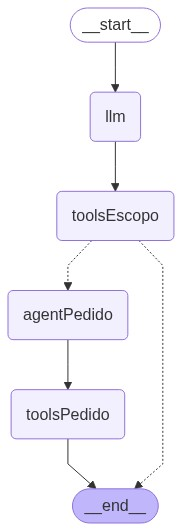
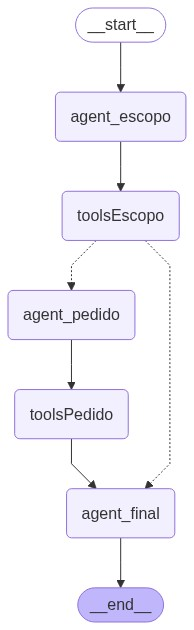
primeiro commit

Changed region(s): [[0.0275, 0.0, 0.989, 0.9944], [0.8242, 0.0, 0.9066, 0.0904], [0.6319, 0.6026, 0.6868, 0.693]]

diff --git a/src/agentEscopo.ts b/src/agentEscopo.ts
@@ -3,11 +3,12 @@ import { writeFileSync } from "node:fs";
 import { StateGraph, MessagesAnnotation } from "@langchain/langgraph";
 import { z } from "zod";
 import { tool } from "@langchain/core/tools";
-import { HumanMessage } from "@langchain/core/messages";
+import { HumanMessage, SystemMessage, AIMessage } from "@langchain/core/messages";
 
 import ToolEscopo from "./tools/ToolEscopo";
 import ToolPedido from "./tools/ToolPedido";
 import AgentOpenAI from "./agents/AgentOpenAI";
+import askQuestion from "./terminal";
 
 //---------------------------------------------
 // 1. Definição das Tools
@@ -43,33 +44,47 @@ const buscarClienteTool = tool(
    */
   const agentEscopo = agentOpenAI.create([toolsEscopo.getEscopo]);
   const agentPedido = agentOpenAI.create([toolsPedido.getPedido]);
-
+  const agentFinal = agentOpenAI.create([]);
   //---------------------------------------------
   // 2. Definição do Workflow
   //---------------------------------------------
 
+  const listAgents = ["agent_pedido"];
   const workflow = new StateGraph(MessagesAnnotation)
     .addNode("toolsEscopo", toolsEscopo.node)
     .addNode("toolsPedido", toolsPedido.node)
-    .addNode("llm", (state) => agentOpenAI.call(state, agentEscopo))
-    .addNode("agentPedido", (state) => agentOpenAI.call(state, agentPedido))
-    .addEdge("__start__", "llm")
-    .addEdge("llm", "toolsEscopo")
+    .addNode("agent_escopo", (state) => agentOpenAI.call(state, agentEscopo))
+    .addNode("agent_pedido", (state) => agentOpenAI.call(state, agentPedido))
+    .addNode("agent_final", (state) => {
+      const lastMessage = state.messages[state.messages.length - 1];
+      const message = lastMessage.content.toString().toLowerCase().trim();
+      console.log("Messange antes do agent final: ", message);
+      const input = new SystemMessage(
+        `Voce é um assistente de IA que revisa todas as perguntas e respostas, e se verificar que ouve algum erro
+         , você deve informar que não pode responder a pergunta e que o usuário deve entrar em 
+         contato com o suporte. se tudo estiver ok, voce apenas repete a resposta do agente anterior sem alterar nada.`
+      );
+      state.messages.push(input);
+      return agentOpenAI.call(state, agentFinal);
+    })
+    .addEdge("__start__", "agent_escopo")
+    .addEdge("agent_escopo", "toolsEscopo")
     .addConditionalEdges(
       "toolsEscopo",
       (state) => {
         const lastMessage = state.messages[state.messages.length - 1];
         const escopo = lastMessage.content.toString().toLowerCase().trim();
-
-        if (escopo === "pedido") {
-          return "agentPedido";
+        if (!listAgents.find((value) => value.toLocaleLowerCase() === escopo.toLocaleLowerCase())) {
+          return "agent_final";
         }
-        return "__end__";
+        return escopo;
       },
-      ["agentPedido", "__end__"]
+      ["agent_pedido", "agent_final"]
     )
-    .addEdge("agentPedido", "toolsPedido")
-    .addEdge("toolsPedido", "__end__")
+
+    .addEdge("agent_pedido", "toolsPedido")
+    .addEdge("toolsPedido", "agent_final")
+    .addEdge("agent_final", "__end__")
 
     .compile();
 
@@ -106,7 +121,8 @@ const buscarClienteTool = tool(
   // askQuestion();
 
   const input = {
-    messages: [new HumanMessage("Quero consultar um pedido")],
+    messages: [new HumanMessage("Quero consultar um pedido numero 123456")],
+    //messages: [new HumanMessage("Quero saber aonde eu encontro um posto de gasulina")],
     //messages: [new HumanMessage("quero consultar um cliente")],
     //messages: [new HumanMessage("quero ver quantos trabalhadores a clamed tem")],
   };
@@ -118,6 +134,7 @@ const buscarClienteTool = tool(
   const filePath = "./graphState.png";
   writeFileSync(filePath, new Uint8Array(graphStateArrayBuffer));
 
-  const responde = await workflow.invoke(input);
-  console.log("Resposta final:", responde.messages[responde.messages.length - 1].content);
+  askQuestion(workflow);
+  //const responde = await workflow.invoke(input);
+  //console.log("Resposta final:", responde.messages[responde.messages.length - 1].content);
 })();

diff --git a/src/terminal.ts b/src/terminal.ts
@@ -1,0 +1,35 @@
+import readline from "readline";
+import { HumanMessage } from "@langchain/core/messages";
+
+const rl = readline.createInterface({
+  input: process.stdin,
+  output: process.stdout,
+});
+
+export default function askQuestion(workflow: any) {
+  let messages: any[] = [];
+
+  function prompt() {
+    rl.question("Usuário: ", async (input) => {
+      if (input.toLowerCase() === "exit") {
+        rl.close();
+        return;
+      }
+
+      // Adiciona a mensagem do usuário ao histórico
+      messages.push(new HumanMessage(input));
+
+      // Invoca o workflow com o histórico de mensagens
+      const state = await workflow.invoke({ messages });
+
+      console.log(messages);
+
+      // Atualiza o histórico com todas as mensagens retornadas (mantém contexto)
+      messages = state.messages;
+
+      prompt();
+    });
+  }
+
+  prompt();
+}

diff --git a/src/tools/ToolEscopo.ts b/src/tools/ToolEscopo.ts
@@ -5,14 +5,17 @@ import z from "zod";
 class ToolEscopo {
   public get getEscopo() {
     return tool(
-      async ({ escopo }: { escopo: "pedido" | "cliente" }) => {
+      async ({ escopo }: { escopo: "agent_pedido" | "agent_cliente" }) => {
         return escopo;
       },
       {
         name: "identifica_escopo",
-        description: "Detecta se o escopo é sobre cliente ou pedido, qual quer coisa diferente disso não é suportado.",
+        description: `
+        Detecta se o escopo é sobre cliente ou pedido, e definal qual o 
+        agente que ele vai usar qual quer coisa diferente disso não é suportado retone que não pode responder essa pergunta.
+        `,
         schema: z.object({
-          escopo: z.enum(["pedido", "cliente"]),
+          escopo: z.enum(["agent_pedido", "agent_cliente"]),
         }),
       }
     );
